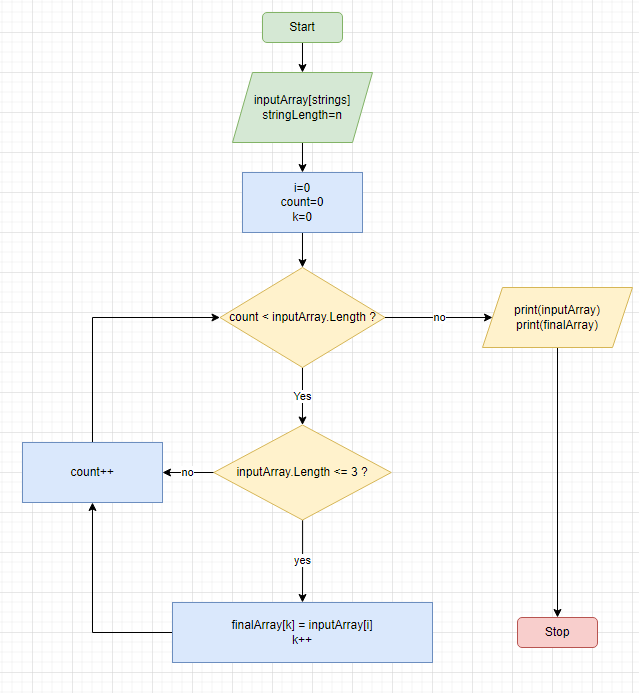
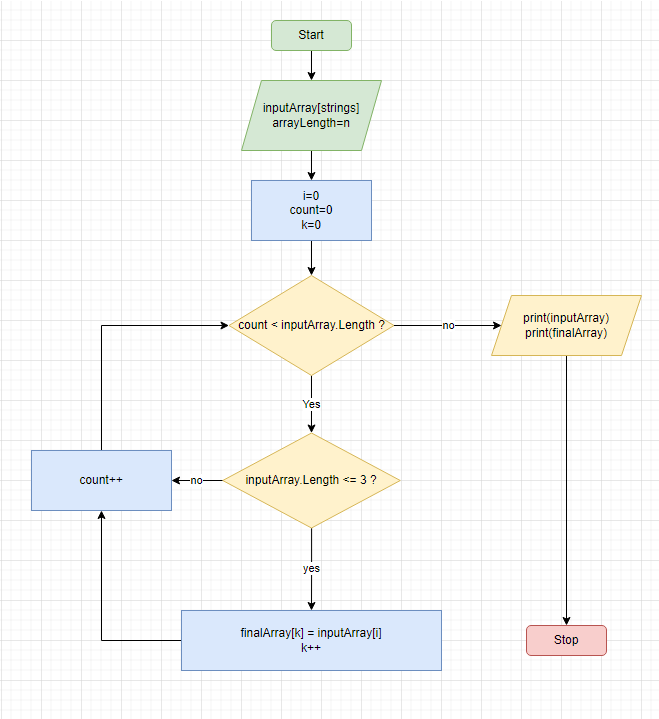
correction of nuances

Changed region(s): [[0.0297, 0.3939, 1.0, 0.9697], [0.3568, 0.0, 0.5947, 0.3939], [0.3865, 0.0303, 0.4163, 0.0606]]

diff --git a/Program.cs b/Program.cs
@@ -23,10 +23,10 @@ Console.WriteLine($"[{String.Join(", ", inputArray)}] -> [{String.Join(", ", fin
 string[] GetArray()
 {
     Console.WriteLine("How many words would be in the array?");
-    int stringLength = int.Parse(Console.ReadLine()!);
+    int arrayLength = int.Parse(Console.ReadLine()!);
     Console.WriteLine("Please, enter the words: ");
-    string[] inputArray = new string[stringLength];
-    for (int i = 0; i < stringLength; i++)
+    string[] inputArray = new string[arrayLength];
+    for (int i = 0; i < arrayLength; i++)
     {
         inputArray[i] = Console.ReadLine()!;
     }
